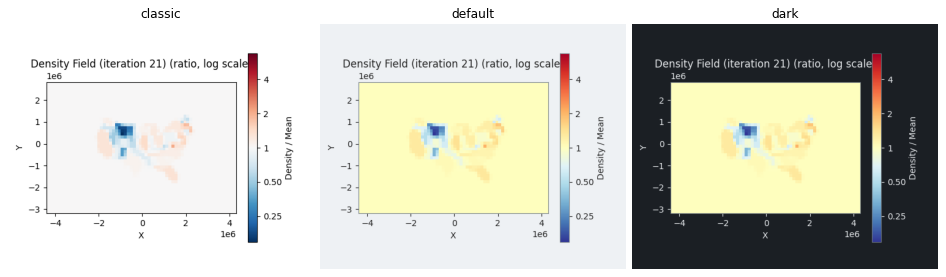
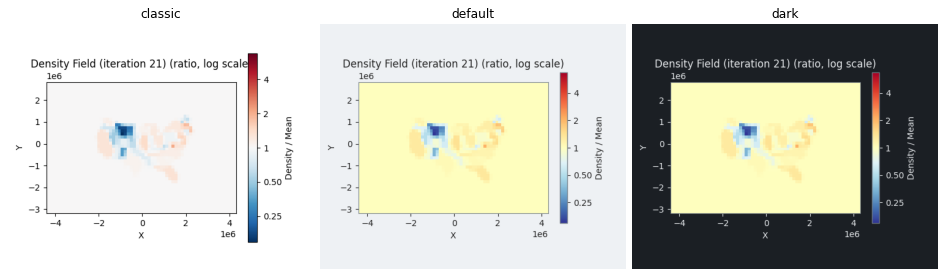
Update magnitude scales page

Changed region(s): [[0.9197, 0.1733, 0.981, 0.8953], [0.5825, 0.1733, 0.6438, 0.8953]]

diff --git a/index.html b/index.html
@@ -77,7 +77,7 @@
 <table id="toc">
 <thead><tr><th data-col="0" title="Sort by Status">Status</th><th data-col="1" title="Sort by Kind">Kind</th><th data-col="2" title="Sort by Topic">Topic</th><th data-col="3" title="Sort by PR">PR</th><th data-col="4" title="Sort by Title">Title</th><th data-col="5" title="Sort by Description">Description</th><th data-col="6" title="Sort by Created">Created</th><th data-col="7" title="Sort by Closed">Closed</th><th data-col="8" title="Sort by Figures">Figures</th></tr></thead>
 <tbody>
-<tr class="todo" data-ord="0" data-kind="pr" data-topics=" flow voronoi infra " data-status="needs review" data-class="todo" data-active="2026-10-16 22:00"><td><span class="status todo">needs review</span></td><td>pr</td><td>flow, voronoi, infra</td><td><a href="https://github.com/bright-fakl/carto-flow/pull/147">#147</a></td><td><a href="plot-style-magnitude-scales/index.html">Scales for the velocity and displacement magnitudes, style palettes for the field plots</a></td><td>VelocityPlotOptions(norm=) and the Voronoi plot_displacement(norm=) take a scale (linear, sqrt, log, auto or a Normalize) for the magnitude that sets arrow color, opacity and the colorbar; sqrt joins the color scales. The density and velocity plots and the Voronoi displacement arrows take the palettes of the style, and the flow convergence plots the series colors.</td><td>2026-10-16 22:00</td><td></td><td>7</td></tr>
+<tr class="todo" data-ord="0" data-kind="pr" data-topics=" flow voronoi infra " data-status="needs review" data-class="todo" data-active="2026-10-16 22:00"><td><span class="status todo">needs review</span></td><td>pr</td><td>flow, voronoi, infra</td><td><a href="https://github.com/bright-fakl/carto-flow/pull/147">#147</a></td><td><a href="plot-style-magnitude-scales/index.html">Scales for the velocity and displacement magnitudes, style palettes for the field plots</a></td><td>VelocityPlotOptions(norm=) and the Voronoi plot_displacement(norm=) take a scale (linear, sqrt, log, auto or a Normalize) for the magnitude that sets arrow color, opacity and the colorbar; sqrt joins the color scales. The density and velocity plots and the Voronoi displacement arrows take the palettes of the style, and the flow convergence plots the series colors.</td><td>2026-10-16 22:00</td><td></td><td>8</td></tr>
 <tr data-ord="1" data-kind="pr" data-topics=" voronoi symbol infra " data-status="merged" data-class="done" data-active="2026-10-16 20:00"><td><span class="status done">merged</span></td><td>pr</td><td>voronoi, symbol, infra</td><td><a href="https://github.com/bright-fakl/carto-flow/pull/146">#146</a></td><td><a href="plot-style-overlays/index.html">Overlay colors of the diagnostic plots in PlotStyle</a></td><td>PlotStyle gets series_color, accent_color, positive_color and highlight_color for the fixed colors of the diagnostic overlays of the Voronoi and symbol plots. Default and dark set them; classic keeps the former colors.</td><td>2026-10-16 20:00</td><td>2026-10-16 00:30</td><td>9</td></tr>
 <tr data-ord="2" data-kind="pr" data-topics=" symbol infra " data-status="merged" data-class="done" data-active="2026-10-16 18:00"><td><span class="status done">merged</span></td><td>pr</td><td>symbol, infra</td><td><a href="https://github.com/bright-fakl/carto-flow/pull/145">#145</a></td><td><a href="plot-style-symbol/index.html">PlotStyle for the symbol plots</a></td><td>Part B2 of the style system. SymbolCartogram.plot and the symbol plot functions take style=, with the surface, the palettes by data role, the channels (fill, alpha, edge, linewidth, label), hatch cycle, reference layer and colorbar of the style. plot_symbols takes center= and categorical=. The default look of these plots changes; style=&quot;classic&quot; gives the earlier look.</td><td>2026-10-16 18:00</td><td>2026-10-15 22:37</td><td>9</td></tr>
 <tr data-ord="3" data-kind="pr" data-topics=" voronoi proportional infra " data-status="merged" data-class="done" data-active="2026-10-16 15:00"><td><span class="status done">merged</span></td><td>pr</td><td>voronoi, proportional, infra</td><td><a href="https://github.com/bright-fakl/carto-flow/pull/144">#144</a></td><td><a href="plot-style-voronoi-proportional/index.html">PlotStyle for the Voronoi and proportional plots</a></td><td>Part B1 of the style system. The Voronoi plots and animation and plot_partitions and plot_dot_density take style=, with the surface, the palettes by data role, the boundary and the colorbar of the style, and norm= (Voronoi also center= and categorical=). New PlotStyle fields reference_* and annotation_size. The fill drawing of the flow plots moves to a shared module. Fixes the black complement of plot_partitions for continuous values. The default look of these plots changes; style=&quot;classic&quot; gives the earlier look.</td><td>2026-10-16 15:00</td><td>2026-10-15 21:51</td><td>8</td></tr>

diff --git a/plot-style-magnitude-scales/index.html b/plot-style-magnitude-scales/index.html
@@ -84,7 +84,7 @@
 <dt>Base</dt><dd>main</dd>
 <dt>Created</dt><dd>2026-10-16 22:00</dd>
 <dt>Before</dt><dd>main @ aff2719 (equal to style=&quot;classic&quot;)</dd>
-<dt>After</dt><dd>feat/plot-style-magnitude-scales @ 4f3db68</dd>
+<dt>After</dt><dd>feat/plot-style-magnitude-scales @ f5efe1c</dd>
 <dt>Inputs</dt><dd>bundled US states; a population flow cartogram (grid 64, 30 iterations); a population Voronoi cartogram (RasterBackend 256, 100 iterations).</dd>
 </dl>
 <p class="desc">VelocityPlotOptions(norm=) and the Voronoi plot_displacement(norm=) take a scale (linear, sqrt, log, auto or a Normalize) for the magnitude that sets arrow color, opacity and the colorbar; sqrt joins the color scales. The density and velocity plots and the Voronoi displacement arrows take the palettes of the style, and the flow convergence plots the series colors.</p>
@@ -97,10 +97,12 @@
 <tr><td>scales</td><td><code>VelocityPlotOptions.norm</code>, <code>plot_displacement(norm=)</code> of the Voronoi cartogram (function and method); <code>&quot;sqrt&quot;</code> is a color scale everywhere (<code>PowerNorm(0.5)</code>)</td></tr>
 <tr><td>palettes</td><td>density cmap (sequential, diverging for ratio and difference), velocity magnitude cmap, Voronoi displacement cmap: the style, then the former default</td></tr>
 <tr><td>series colors</td><td><code>plot_convergence</code> and the workflow convergence plot: <code>series_color</code>, <code>highlight_color</code></td></tr>
-<tr><td>not yet</td><td>the density colorbar still uses plain matplotlib (not the colorbar of the style); the direction colormap (<code>twilight</code>, cyclic) has no role in the style</td></tr>
+<tr><td>colorbars</td><td>the density and velocity colorbars (static plots and animations) are drawn by the style; <code>legend_kwargs[&quot;label&quot;]</code> replaces the label</td></tr>
+<tr><td>cyclic palette</td><td><code>Palettes(cyclic=...)</code> is a fourth palette role, used for the direction of the velocity: <code>hsv</code> in default and dark (the ends of <code>twilight</code> are as light or as dark as the surface, so arrows in those directions vanish), <code>twilight</code> in classic</td></tr>
+<tr><td>not yet</td><td><code>plot_density</code> of the density module and the anisotropy plots still use plain matplotlib colorbars</td></tr>
 </table>
 <h2>Checks</h2>
-<p>Suite 1297 passed, ruff and mypy clean.</p>
+<p>Suite 1308 passed, ruff and mypy clean.</p>
 <div class="figure">
 <img src="fig_convergence.png" alt="Max and mean error lines take the series and highlight colors of the style (C0 and C1 in classic).">
 <p class="caption">Max and mean error lines take the series and highlight colors of the style (C0 and C1 in classic).</p>
@@ -116,6 +118,9 @@
 </div><div class="figure">
 <img src="fig_velocity_alpha_scales.png" alt="Opacity by magnitude with the same three scales.">
 <p class="caption">Opacity by magnitude with the same three scales.</p>
+</div><div class="figure">
+<img src="fig_velocity_direction.png" alt="Arrows colored by direction: twilight in classic (arrows pointing left are as light as the surface), the cyclic palette hsv in default and dark.">
+<p class="caption">Arrows colored by direction: twilight in classic (arrows pointing left are as light as the surface), the cyclic palette hsv in default and dark.</p>
 </div><div class="figure">
 <img src="fig_velocity_palettes.png" alt="Velocity arrows colored by magnitude: the sequential palette of the style.">
 <p class="caption">Velocity arrows colored by magnitude: the sequential palette of the style.</p>

diff --git a/plot-style-magnitude-scales/make_figures.py b/plot-style-magnitude-scales/make_figures.py
@@ -93,3 +93,9 @@ strip(
     [lambda s=s: plot_convergence(cartogram, style=s).ax.figure for s in styles],
     styles,
 )
+
+strip(
+    "fig_velocity_direction.png",
+    [lambda s=s: plot_velocity_field(cartogram, velocity=VelocityPlotOptions(color_by="direction"), style=s).ax.figure for s in styles],
+    styles,
+)

diff --git a/plot-style-magnitude-scales/summary.md b/plot-style-magnitude-scales/summary.md
@@ -11,7 +11,7 @@ base: main
 date: 2026-10-16 22:00
 related: plot-style-overlays, plot-style-symbol, style-system
 before: main @ aff2719 (equal to style="classic")
-after: feat/plot-style-magnitude-scales @ 4f3db68
+after: feat/plot-style-magnitude-scales @ f5efe1c
 inputs: bundled US states; a population flow cartogram (grid 64, 30 iterations); a population Voronoi cartogram (RasterBackend 256, 100 iterations).
 ---
 
@@ -30,6 +30,8 @@ figure: fig_density_ratio_palettes.png — Density relative to the mean: the div
 figure: fig_velocity_palettes.png — Velocity arrows colored by magnitude: the sequential palette of the style.
 figure: fig_convergence.png — Max and mean error lines take the series and highlight colors of the style (C0 and C1 in classic).
 
+figure: fig_velocity_direction.png — Arrows colored by direction: twilight in classic (arrows pointing left are as light as the surface), the cyclic palette hsv in default and dark.
+
 ## What changes
 
 | | |
@@ -37,8 +39,10 @@ figure: fig_convergence.png — Max and mean error lines take the series and hig
 | scales | `VelocityPlotOptions.norm`, `plot_displacement(norm=)` of the Voronoi cartogram (function and method); `"sqrt"` is a color scale everywhere (`PowerNorm(0.5)`) |
 | palettes | density cmap (sequential, diverging for ratio and difference), velocity magnitude cmap, Voronoi displacement cmap: the style, then the former default |
 | series colors | `plot_convergence` and the workflow convergence plot: `series_color`, `highlight_color` |
-| not yet | the density colorbar still uses plain matplotlib (not the colorbar of the style); the direction colormap (`twilight`, cyclic) has no role in the style |
+| colorbars | the density and velocity colorbars (static plots and animations) are drawn by the style; `legend_kwargs["label"]` replaces the label |
+| cyclic palette | `Palettes(cyclic=...)` is a fourth palette role, used for the direction of the velocity: `hsv` in default and dark (the ends of `twilight` are as light or as dark as the surface, so arrows in those directions vanish), `twilight` in classic |
+| not yet | `plot_density` of the density module and the anisotropy plots still use plain matplotlib colorbars |
 
 ## Checks
 
-Suite 1297 passed, ruff and mypy clean.
+Suite 1308 passed, ruff and mypy clean.
